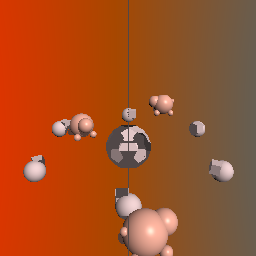
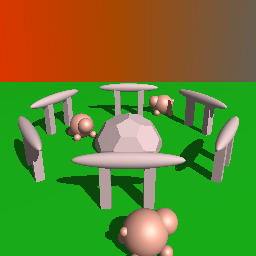
A4: Assignment complete

diff --git a/A4/GeometryNode.cpp b/A4/GeometryNode.cpp
@@ -27,3 +27,43 @@ void GeometryNode::setMaterial( Material *mat )
 
 	m_material = mat;
 }
+
+bool GeometryNode::isHit(RayTracer & ray,float t0Float,float t1Float, HitRecord &record ) {
+	// Get Local Transformation
+	RayTracer localRay;
+	const vec3 localRayOriginVec = vec3(get_inverse() *vec4(ray.getOrigin(),1.0f));
+	localRay.setOrigin(localRayOriginVec);
+	const vec3 localRayDirVec = vec3(get_inverse() * vec4(ray.getDirection(),0.0f));
+	localRay.setDirection(localRayDirVec);
+
+	HitRecord localRecord;
+	localRecord.material = NULL;
+	bool hit  = false;
+	
+	// Check if mesh attribute hits and update closest position
+	if(m_primitive->isHit(localRay,t0Float,t1Float, localRecord)){
+		localRecord.material = m_material;
+		hit = true;
+		// Max t updated to find element closest to screen
+		t1Float = localRecord.t; 
+		// Updated Max t and record Material updating record
+		record = localRecord;
+	}
+
+	// recursive  call
+	if (SceneNode::isHit(localRay,t0Float,t1Float, localRecord)){
+		hit = true;
+		// Max t updated to find element closest to screen
+		t1Float = localRecord.t; 
+		// Updated Max t and record Material updating record
+		record = localRecord;
+	}
+
+	if (hit){
+		// Restore transformation
+		record.normalVec = mat3(transpose(get_inverse())) * record.normalVec;
+		record.hitPointVec = vec3(get_transform() * vec4(record.hitPointVec,1.0f));
+	}
+	
+	return hit;
+}

diff --git a/A4/Mesh.cpp b/A4/Mesh.cpp
@@ -121,7 +121,7 @@ bool Mesh::isHit(RayTracer & ray,float t0Float,float t1Float, HitRecord &record 
 		// loop through vertices
 		// find min across x,y,z 
 		// use that to find the center
-		// regular sphere shit from there
+		// regular nh_sphere steps from there
 		vec3 minVec = m_vertices[0];
 		vec3 maxVec = m_vertices[0];
 		
@@ -180,8 +180,7 @@ bool Mesh::isHit(RayTracer & ray,float t0Float,float t1Float, HitRecord &record 
 	for (auto face: m_faces){
 		float potT1Float = 0.0f;
 		// Check for intersection with face
-		if (isTriangleIntersection(ray, m_vertices[face.v1], m_vertices[face.v2], m_vertices[face.v3], potT1Float,t0Float,t1Float)){
-			// TODO: Print potT1Float, be sure it is changing
+		if (isTriangleIntersection(ray, m_vertices[face.v1], m_vertices[face.v2], m_vertices[face.v3], potT1Float,t0Float,newT1float)){
 			// cout<< "potT1float = " << potT1Float<< endl;
 			hit = true;
 			newT1float = potT1Float;
@@ -197,7 +196,7 @@ bool Mesh::isHit(RayTracer & ray,float t0Float,float t1Float, HitRecord &record 
 		// cout << "Mesh::isHit() left false" << endl;
 		return false;
 	}
-
+	// Flipping the normals
 	if (dot(ray.getDirection(),normalVec)> 0){
 		normalVec = -normalVec;
 	}

diff --git a/A4/SceneNode.cpp b/A4/SceneNode.cpp
@@ -155,8 +155,8 @@ bool SceneNode::isHit(RayTracer & ray,float t0Float,float t1Float, HitRecord &re
 	for (SceneNode* child : children){
 		bool checkHit = false;
 		if(child->m_nodeType == NodeType::GeometryNode){
-			const GeometryNode * geometryNode = static_cast<const GeometryNode *>(child);
-			checkHit = geometryNode->m_primitive->isHit(localRay,t0Float,t1Float, localRecord);
+			GeometryNode * geometryNode = static_cast<GeometryNode *>(child);
+			checkHit = geometryNode->isHit(localRay,t0Float,t1Float, localRecord);
 			// Update record material for use in rendering
 			localRecord.material = geometryNode->m_material;
 		}else{

diff --git a/A4/Primitive.cpp b/A4/Primitive.cpp
@@ -25,9 +25,19 @@ bool Primitive::isHit(RayTracer & ray,float t0Float,float t1Float, HitRecord &re
 Sphere::~Sphere()
 {
 }
+bool Sphere::isHit(RayTracer & ray,float t0Float,float t1Float, HitRecord &record ){
+    auto nh_sphere = new NonhierSphere(vec3(0.0,0.0,0.0),1.0);
+    return nh_sphere->isHit(ray,t0Float,t1Float,record );
+
+}
 
 Cube::~Cube()
 {
+}
+
+bool Cube::isHit(RayTracer & ray,float t0Float,float t1Float, HitRecord &record ){
+    auto nh_cube = new NonhierBox(vec3(0.0,0.0,0.0),1.0);
+    return nh_cube->isHit(ray,t0Float,t1Float,record );
 }
 
 NonhierSphere::~NonhierSphere()

diff --git a/A4/Primitive.hpp b/A4/Primitive.hpp
@@ -19,11 +19,13 @@ public:
 class Sphere : public Primitive {
 public:
   virtual ~Sphere();
+  virtual bool isHit(RayTracer & ray,float t0Float,float t1Float, HitRecord &record ) override;
 };
 
 class Cube : public Primitive {
 public:
   virtual ~Cube();
+  virtual bool isHit(RayTracer & ray,float t0Float,float t1Float, HitRecord &record ) override;
 };
 
 class NonhierSphere : public Primitive {

diff --git a/A4/A4.cpp b/A4/A4.cpp
@@ -94,6 +94,9 @@ vec3 rayTraceRGB(
 		// Background color is left to right gradient
 		returnColor = (1 - unitDirVec.x) * vec3(161.0f/MAX_RGB,74.0f/MAX_RGB,8.0f/MAX_RGB) +
 					   unitDirVec.x * vec3(20.0f/MAX_RGB,123.0f/MAX_RGB,186.0f/MAX_RGB) ;
+		if(rand_float() < 0.1){
+			returnColor = vec3(0.9,0.9,0.9);
+		}
 			   
 	}
 	return returnColor;

diff --git a/A4/GeometryNode.hpp b/A4/GeometryNode.hpp
@@ -16,6 +16,6 @@ public:
 	Material *m_material;
 	Primitive *m_primitive;
 	// TODO: define hit for geometry node
-	// virtual bool isHit(RayTracer & ray,float t0Float,float t1Float, HitRecord &record ) override;
+	virtual bool isHit(RayTracer & ray,float t0Float,float t1Float, HitRecord &record ) override;
   
 };

diff --git a/A4/Mesh.hpp b/A4/Mesh.hpp
@@ -14,7 +14,7 @@
 // Use this #define to selectively compile your code to render the
 // bounding boxes around your mesh objects. Uncomment this option
 // to turn it on.
-#define RENDER_BOUNDING_VOLUMES 1
+#define RENDER_BOUNDING_VOLUMES 0
 
 struct Triangle
 {
